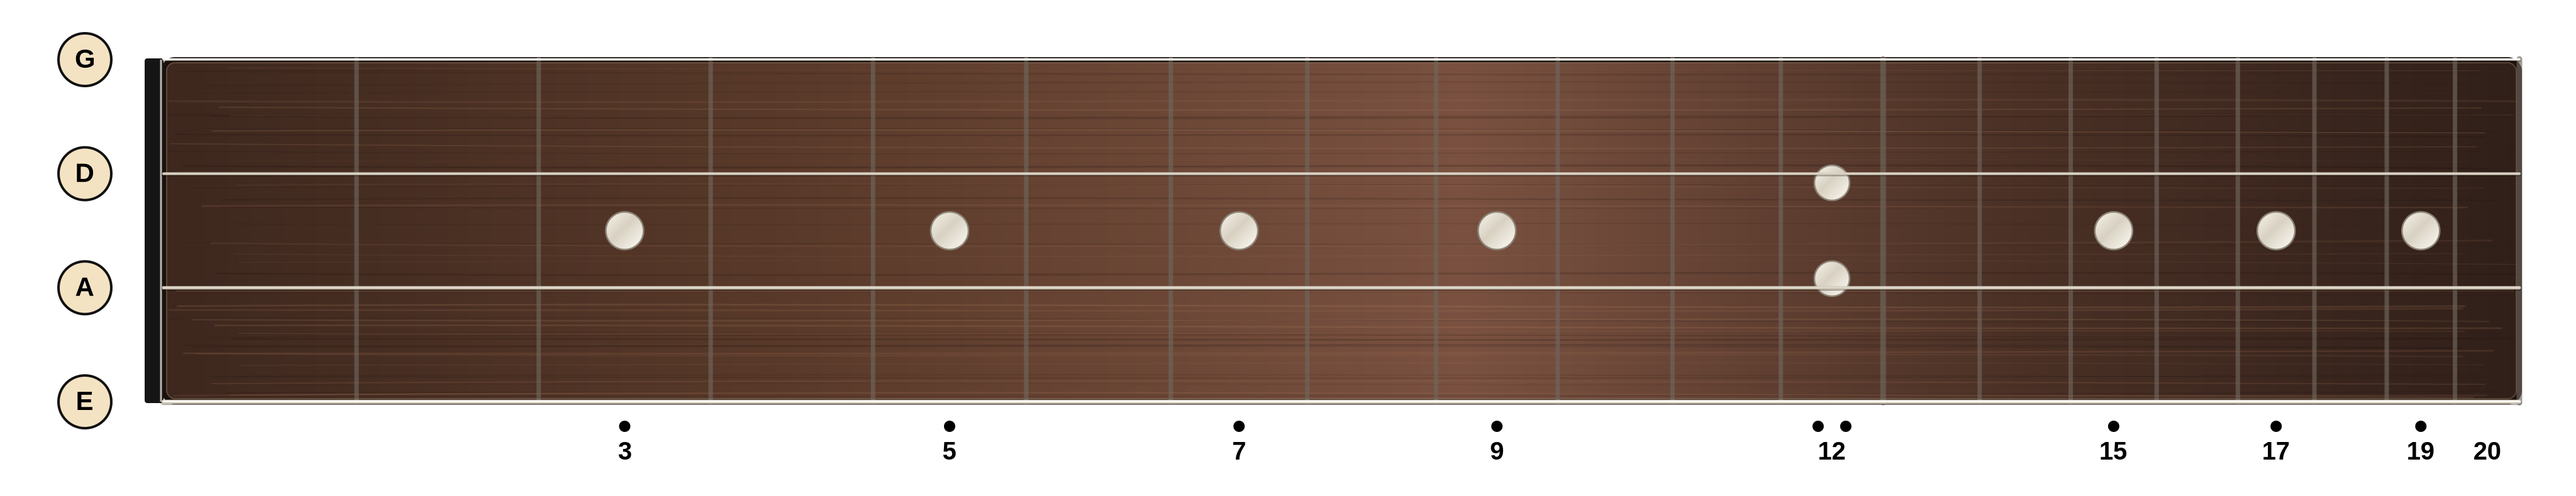
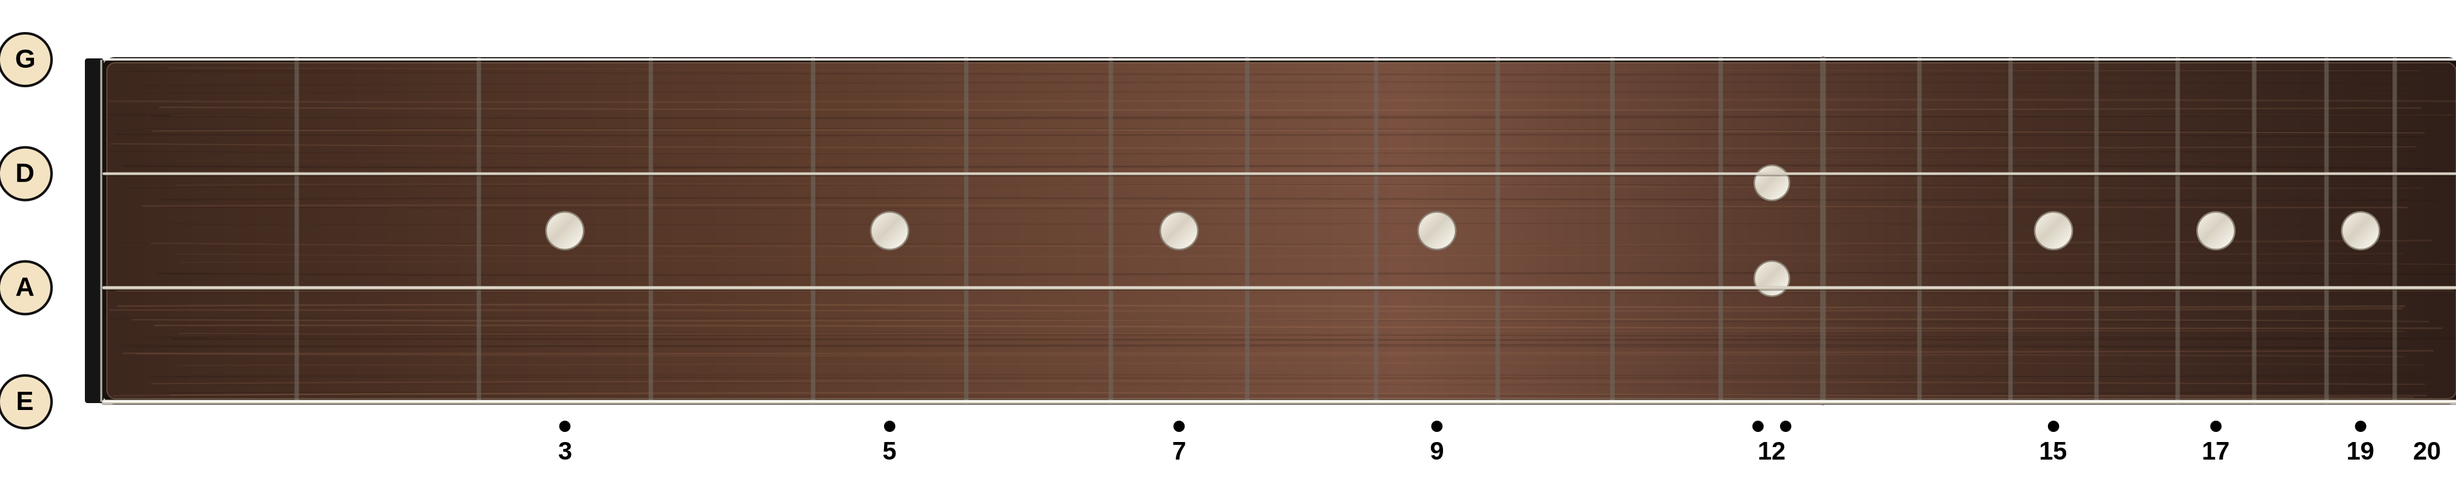
Keep scale fretboard fixed in view

diff --git a/src/guitarta/ui/app.py b/src/guitarta/ui/app.py
@@ -90,7 +90,7 @@ AUDIO_KIND_LABELS = {
     "drums_only": "드럼 단독",
 }
 SIDEBAR_TOOL_BUTTON_HEIGHT = 58
-SCALE_BOARD_WIDTH = 980
+SCALE_BOARD_WIDTH = 880
 SCALE_PRESS_RATIO = 0.68
 SCALE_OPEN_MARKER_X = 30
 SCALE_FRET_NUMBER_HEIGHT = 28
@@ -154,10 +154,9 @@ SCALE_INSTRUMENTS = {
     "guitar": {
         "label": "기타",
         "image": "guitar_fretboard_22.png",
-        "image_size": (4096, 1050),
-        "crop_left": 190,
-        "board_left": 256,
-        "board_right": 4008,
+        "image_size": (3906, 1050),
+        "board_left": 66,
+        "board_right": 3818,
         "string_y": [95, 256, 418, 580, 741, 902],
         "tuning": [64, 59, 55, 50, 45, 40],
         "max_fret": 22,
@@ -165,10 +164,9 @@ SCALE_INSTRUMENTS = {
     "bass": {
         "label": "베이스",
         "image": "bass_fretboard_20.png",
-        "image_size": (4096, 790),
-        "crop_left": 190,
-        "board_left": 256,
-        "board_right": 4008,
+        "image_size": (3906, 790),
+        "board_left": 66,
+        "board_right": 3818,
         "string_y": [96, 278, 459, 642],
         "tuning": [43, 38, 33, 28],
         "max_fret": 20,
@@ -490,10 +488,7 @@ class GuitarTAApp:
                     ),
                     self._scale_controls(),
                     self._scale_info_panel(scale, notes, degrees),
-                    ft.Row(
-                        [self._scale_fretboard()],
-                        scroll=ft.ScrollMode.AUTO,
-                    ),
+                    self._scale_fretboard(),
                 ],
                 expand=True,
                 spacing=14,
@@ -570,7 +565,13 @@ class GuitarTAApp:
                 ft.Row(
                     [
                         ft.Text("구성음", color=MUTED, size=12, width=48),
-                        ft.Text("  ".join(notes), color=TEXT, size=14, weight=ft.FontWeight.BOLD),
+                        ft.Row(
+                            [
+                                self._scale_note_text(note, idx == 0)
+                                for idx, note in enumerate(notes)
+                            ],
+                            spacing=12,
+                        ),
                     ],
                     spacing=8,
                     vertical_alignment=ft.CrossAxisAlignment.CENTER,
@@ -591,18 +592,13 @@ class GuitarTAApp:
     def _scale_fretboard(self) -> ft.Control:
         inst = SCALE_INSTRUMENTS[self.scale_instrument]
         image_w, image_h = inst["image_size"]
-        crop_left = int(inst.get("crop_left", 0))
-        visible_raw_w = image_w - crop_left
-        image_scale = SCALE_BOARD_WIDTH / visible_raw_w
-        image_display_w = round(image_w * image_scale)
+        image_scale = SCALE_BOARD_WIDTH / image_w
         image_display_h = round(image_h * image_scale)
         board_h = image_display_h + SCALE_FRET_NUMBER_HEIGHT
         controls = [
             ft.Image(
                 src=inst["image"],
-                left=round(-crop_left * image_scale),
-                top=0,
-                width=image_display_w,
+                width=SCALE_BOARD_WIDTH,
                 height=image_display_h,
                 fit=ft.BoxFit.CONTAIN,
             )
@@ -632,7 +628,6 @@ class GuitarTAApp:
             for interval in scale["intervals"]
         }
         markers: List[ft.Control] = []
-        crop_left = float(inst.get("crop_left", 0))
         for string_idx, open_midi in enumerate(inst["tuning"]):
             for fret in range(0, inst["max_fret"] + 1):
                 midi = open_midi + fret
@@ -644,7 +639,7 @@ class GuitarTAApp:
                 size = 26 if is_root and self.scale_highlight_root else 22
                 markers.append(
                     ft.Container(
-                        left=(x - crop_left) * image_scale - size / 2,
+                        left=x * image_scale - size / 2,
                         top=y * image_scale - size / 2,
                         width=size,
                         height=size,
@@ -675,14 +670,13 @@ class GuitarTAApp:
 
     def _scale_fret_numbers(self, inst: Dict, image_scale: float, image_display_h: int) -> List[ft.Control]:
         numbers: List[ft.Control] = []
-        crop_left = float(inst.get("crop_left", 0))
         for fret in SCALE_NUMBER_FRETS:
             if fret > int(inst["max_fret"]):
                 continue
             x = self._scale_fret_mid_x(inst, fret)
             numbers.append(
                 ft.Container(
-                    left=(x - crop_left) * image_scale - 12,
+                    left=x * image_scale - 12,
                     top=image_display_h + 4,
                     width=24,
                     height=20,
@@ -701,7 +695,7 @@ class GuitarTAApp:
     def _scale_marker_position(self, inst: Dict, fret: int, string_idx: int) -> Tuple[float, float]:
         y = inst["string_y"][string_idx]
         if fret == 0:
-            return float(inst["crop_left"]) + SCALE_OPEN_MARKER_X, float(y)
+            return SCALE_OPEN_MARKER_X, float(y)
         return self._scale_fret_press_x(inst, fret), float(y)
 
     def _scale_fret_press_x(self, inst: Dict, fret: int) -> float:
@@ -786,15 +780,12 @@ class GuitarTAApp:
             on_change=handler,
         )
 
-    def _scale_note_chip(self, note: str, root: bool) -> ft.Container:
-        return ft.Container(
-            width=36,
-            height=30,
-            border_radius=15,
-            bgcolor=ACCENT if root else "#FFF7EA",
-            border=ft.border.all(1, "#2A2118"),
-            alignment=ft.alignment.center,
-            content=ft.Text(note, color=BG, size=12, weight=ft.FontWeight.BOLD),
+    def _scale_note_text(self, note: str, root: bool) -> ft.Text:
+        return ft.Text(
+            note,
+            color=ACCENT if root else TEXT,
+            size=15,
+            weight=ft.FontWeight.BOLD,
         )
 
     def _current_scale(self) -> Optional[Dict]:
